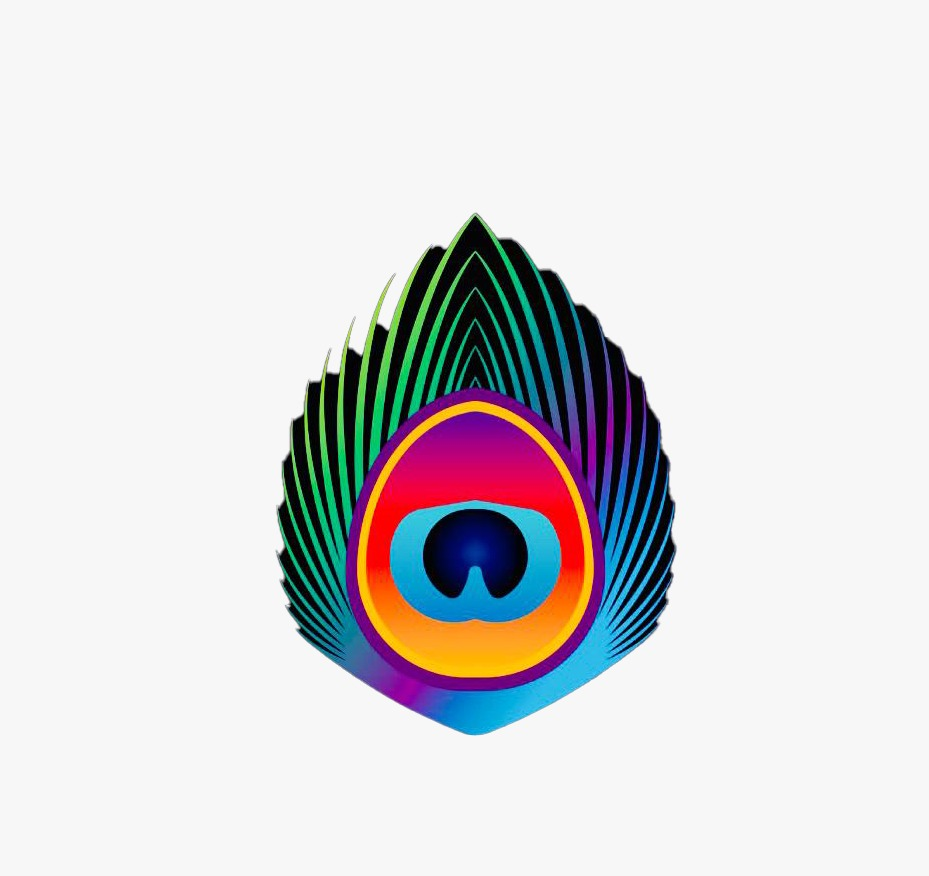
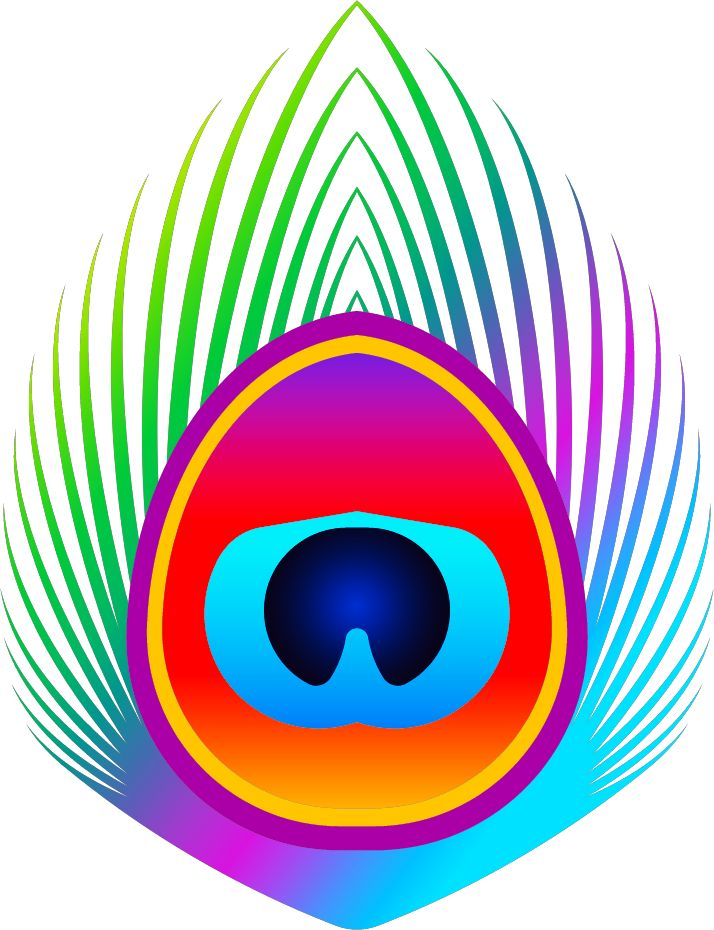
changes

diff --git a/src/auth/LoginPage.js b/src/auth/LoginPage.js
@@ -54,7 +54,7 @@ const LoginPage = () => {
       </div>
 
       <div className="w-1/2 bg-white flex flex-col items-center justify-center px-8">
-        <img src={logoImage} alt="Logo" className="w-16 h-16 mb-4" />
+        <img src={logoImage} alt="Logo" className="w-16 h-20 mb-4" />
         <h2 className="text-2xl font-bold text-blue-600 mb-6">Welcome</h2>
 
         <Formik